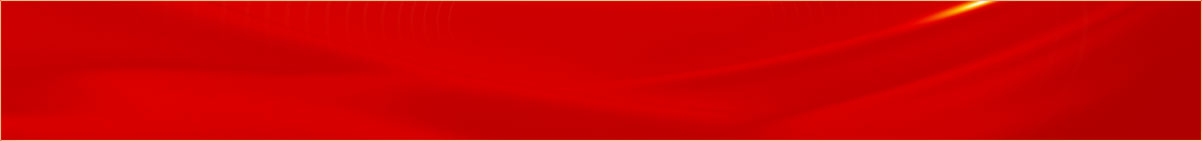
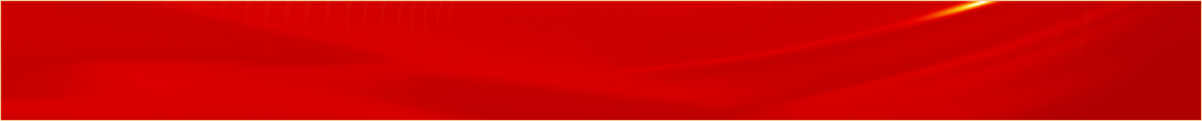
修改

Changed region(s): [[0.0, 0.0, 1.0, 0.0744], [0.0, 0.9917, 1.0, 1.0]]

diff --git a/专题/南水北调学习习近平特色主义专题/习近平特色主义专题-index.html b/专题/南水北调学习习近平特色主义专题/习近平特色主义专题-index.html
@@ -16,7 +16,6 @@
                 <div class="fl"><img class="hnews-icon" src="images_zt/nsbdxjptszt-202304-hnewsicon.png" alt=""></div>
                 <div class="fr w1076 hnew">
                     <h2><a href="" target="_blank">为奋进新征程凝心聚力——论学习贯彻习近平总书记在主题教育工作会议上重要讲话 </a></h2>
-                    <p>新华社北京3月31日电 中共中央政治局3月30日下午就学习贯彻习近平新时代中国特色社会主义思想进行第四次集体学习。中共中央总书记习近平在主持学习时强调，举行这次集体学习，目的是发挥示范作用，推动全党在主题教育中深入学习贯彻新时代中国特色社会主义思想...<a href="" target="_blank">[详情]</a></p>
                 </div>
             </section>
             <section class="clearfix hnews2">

diff --git a/专题/南水北调学习习近平特色主义专题/images_zt/nsbdxjptszt-202304-global.css b/专题/南水北调学习习近平特色主义专题/images_zt/nsbdxjptszt-202304-global.css
@@ -59,20 +59,20 @@ img {
 .hnews {
   background-image: url(nsbdxjptszt-202304-hnewsbg.jpg);
   background-size: contain;
-  height: 141px;
+  height: 121px;
 }
 .hnews-icon {
   margin-left: 20px;
-  margin-top: 17px;
+  margin-top: 13px;
 }
 .hnew {
   padding-right: 23px;
 }
 .hnew h2 {
   color: #fcd88b;
-  font-size: 32px;
+  font-size: 36px;
   text-align: center;
-  margin: 18px 0 26px;
+  margin: 40px 0;
   white-space: nowrap;
   overflow: hidden;
   text-overflow: ellipsis;
@@ -285,7 +285,6 @@ img {
   color: #848383;
 }
 .chnltitle {
-  text-align: center;
   color: #d81010;
   font-weight: bold;
   margin-top: 42px;
